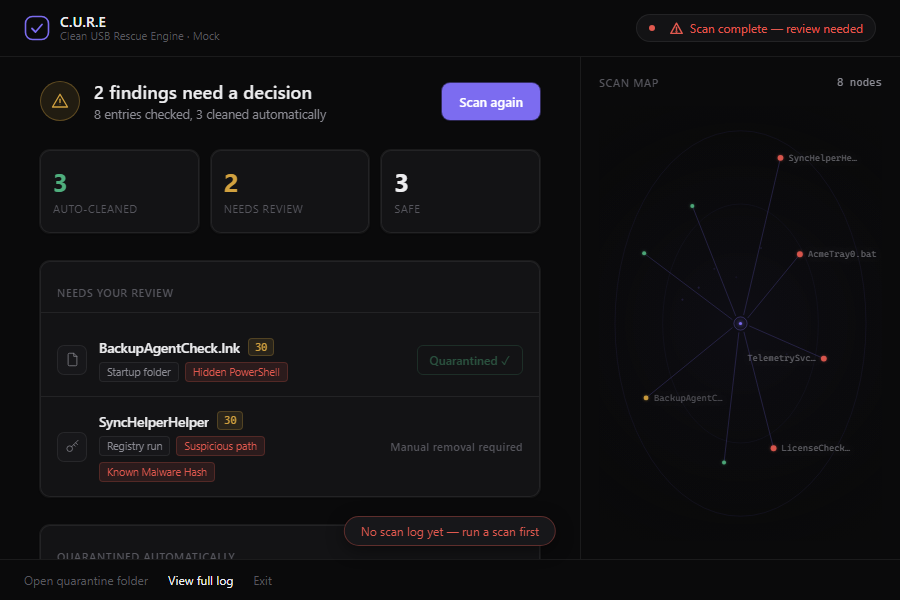
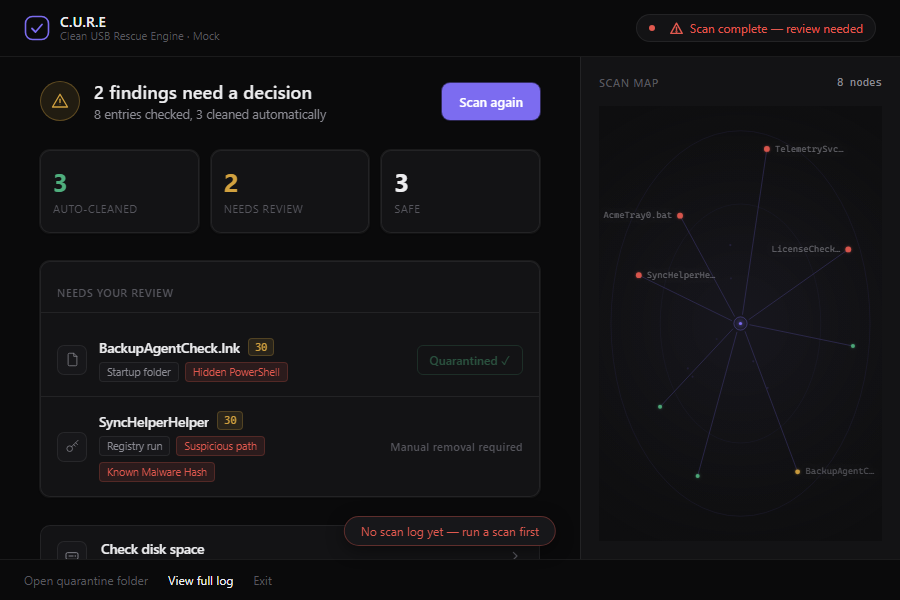
Visual polish: disk-space card, idle mascot presence, scan-map rebalance
- 'Check disk space' elevated from plain ghost text to a proper nav card:
  drive icon chip, label + subline, chevron, hover state; moved in-flow
  directly below the review panel
- Idle violet orb added to resting states: rests at the scan-map heart on
  all-clear results (hidden while findings are up so it never collides with
  the quarantine mascot) and beside the note in disk-cleanup ready state;
  low-amplitude bob, static under prefers-reduced-motion
- Scan map reads as a deliberate region: --panel tint + left border; node
  placement remapped outward (rf 0.58-0.92 -> 0.6-0.975, RX cap R*1.5 ->
  R*2.2) so nodes fill the panel; main stack widened to 880px and centered
  so wide-window dead space splits evenly instead of pooling before the rail;
  map widens to 460px at >=1440px viewports
- mock-tauri: __CURE_MOCK_ALL_CLEAR knob for clean-run captures
- New visualshots.mjs harness capturing all-clear/findings/cleanup-idle at
  900x600 + 1920x1080 (vision-reviewed this round)
- Fixed cleanupcheck.mjs openPage regression: still waited for pre-manual-
  start auto-scan behavior instead of clicking Start Rescue
- All harnesses green: verify, cleanupcheck 29/29, chipcheck, pixelcheck

diff --git a/gui/dist/index.dev.html b/gui/dist/index.dev.html
@@ -89,6 +89,15 @@
           </div>
         </div>
 
+        <button id="open-cleanup" class="disk-card reveal" style="--d:260ms">
+          <svg class="disk-icon" viewBox="0 0 24 24" aria-hidden="true"><rect x="3" y="7" width="18" height="10" rx="2.2"/><path d="M7.5 12h6.2"/><circle cx="16.9" cy="12" r="1" fill="currentColor" stroke="none"/></svg>
+          <span class="disk-copy">
+            <span class="disk-label">Check disk space</span>
+            <span class="disk-sub">Reclaim temp files, browser caches and old installers</span>
+          </span>
+          <svg class="disk-chevron" viewBox="0 0 24 24" aria-hidden="true"><path d="M9.5 6.5l5.5 5.5-5.5 5.5"/></svg>
+        </button>
+
         <div class="panel reveal" id="cleaned-block" style="--d:300ms">
           <h3>QUARANTINED AUTOMATICALLY</h3>
           <div id="cleaned-cards" class="entry-cards cleaned"></div>
@@ -113,10 +122,6 @@
             to check for a known decryptor. C.U.R.E cannot decrypt files.
           </div>
         </div>
-
-        <div class="cleanup-link-row reveal" style="--d:380ms">
-          <button id="open-cleanup" class="ghost-btn">Check disk space</button>
-        </div>
         </div>
         </div>
 
@@ -127,7 +132,21 @@
             <span class="feed-title">SCAN MAP</span>
             <span id="map-count" class="feed-count">0 nodes</span>
           </div>
-          <div id="map-stage"><canvas id="map-canvas"></canvas></div>
+          <div id="map-stage">
+            <canvas id="map-canvas"></canvas>
+            <div id="map-idle-orb" class="idle-orb hidden" aria-hidden="true">
+              <svg viewBox="-20 -20 40 40" width="34" height="34">
+                <defs>
+                  <radialGradient id="orb-grad-map" cx="35%" cy="32%" r="80%">
+                    <stop offset="0%" stop-color="#d9d4ff"/>
+                    <stop offset="45%" stop-color="#7c6cf0"/>
+                    <stop offset="100%" stop-color="#453aa6"/>
+                  </radialGradient>
+                </defs>
+                <circle r="13" fill="url(#orb-grad-map)"/>
+              </svg>
+            </div>
+          </div>
         </aside>
       </section>
         <section id="cleanup-view" class="view hidden">
@@ -150,8 +169,22 @@
 
               <div class="panel reveal" id="cleanup-panel" style="--d:160ms">
                 <div id="cleanup-idle" class="cleanup-idle hidden">
-                  <div class="cleanup-note dim">Check for reclaimable junk — temp files, browser caches, Recycle Bin, Windows.old, old installers. Nothing is scanned or deleted until you start.</div>
-                  <button id="cleanup-scan-btn" class="btn" style="margin-top:10px">Scan disk</button>
+                  <div class="idle-orb cleanup-idle-orb" aria-hidden="true">
+                    <svg viewBox="-20 -20 40 40" width="40" height="40">
+                      <defs>
+                        <radialGradient id="orb-grad-idle" cx="35%" cy="32%" r="80%">
+                          <stop offset="0%" stop-color="#d9d4ff"/>
+                          <stop offset="45%" stop-color="#7c6cf0"/>
+                          <stop offset="100%" stop-color="#453aa6"/>
+                        </radialGradient>
+                      </defs>
+                      <circle r="13" fill="url(#orb-grad-idle)"/>
+                    </svg>
+                  </div>
+                  <div class="cleanup-idle-copy">
+                    <div class="cleanup-note dim">Check for reclaimable junk — temp files, browser caches, Recycle Bin, Windows.old, old installers. Nothing is scanned or deleted until you start.</div>
+                    <button id="cleanup-scan-btn" class="btn" style="margin-top:10px">Scan disk</button>
+                  </div>
                 </div>
                 <div id="cleanup-loading" class="cleanup-note dim hidden">measuring reclaimable space…</div>
                 <div id="cleanup-body" class="hidden">

diff --git a/gui/dist/index.html b/gui/dist/index.html
@@ -89,6 +89,15 @@
           </div>
         </div>
 
+        <button id="open-cleanup" class="disk-card reveal" style="--d:260ms">
+          <svg class="disk-icon" viewBox="0 0 24 24" aria-hidden="true"><rect x="3" y="7" width="18" height="10" rx="2.2"/><path d="M7.5 12h6.2"/><circle cx="16.9" cy="12" r="1" fill="currentColor" stroke="none"/></svg>
+          <span class="disk-copy">
+            <span class="disk-label">Check disk space</span>
+            <span class="disk-sub">Reclaim temp files, browser caches and old installers</span>
+          </span>
+          <svg class="disk-chevron" viewBox="0 0 24 24" aria-hidden="true"><path d="M9.5 6.5l5.5 5.5-5.5 5.5"/></svg>
+        </button>
+
         <div class="panel reveal" id="cleaned-block" style="--d:300ms">
           <h3>QUARANTINED AUTOMATICALLY</h3>
           <div id="cleaned-cards" class="entry-cards cleaned"></div>
@@ -113,10 +122,6 @@
             to check for a known decryptor. C.U.R.E cannot decrypt files.
           </div>
         </div>
-
-        <div class="cleanup-link-row reveal" style="--d:380ms">
-          <button id="open-cleanup" class="ghost-btn">Check disk space</button>
-        </div>
         </div>
         </div>
 
@@ -127,7 +132,21 @@
             <span class="feed-title">SCAN MAP</span>
             <span id="map-count" class="feed-count">0 nodes</span>
           </div>
-          <div id="map-stage"><canvas id="map-canvas"></canvas></div>
+          <div id="map-stage">
+            <canvas id="map-canvas"></canvas>
+            <div id="map-idle-orb" class="idle-orb hidden" aria-hidden="true">
+              <svg viewBox="-20 -20 40 40" width="34" height="34">
+                <defs>
+                  <radialGradient id="orb-grad-map" cx="35%" cy="32%" r="80%">
+                    <stop offset="0%" stop-color="#d9d4ff"/>
+                    <stop offset="45%" stop-color="#7c6cf0"/>
+                    <stop offset="100%" stop-color="#453aa6"/>
+                  </radialGradient>
+                </defs>
+                <circle r="13" fill="url(#orb-grad-map)"/>
+              </svg>
+            </div>
+          </div>
         </aside>
       </section>
         <section id="cleanup-view" class="view hidden">
@@ -150,8 +169,22 @@
 
               <div class="panel reveal" id="cleanup-panel" style="--d:160ms">
                 <div id="cleanup-idle" class="cleanup-idle hidden">
-                  <div class="cleanup-note dim">Check for reclaimable junk — temp files, browser caches, Recycle Bin, Windows.old, old installers. Nothing is scanned or deleted until you start.</div>
-                  <button id="cleanup-scan-btn" class="btn" style="margin-top:10px">Scan disk</button>
+                  <div class="idle-orb cleanup-idle-orb" aria-hidden="true">
+                    <svg viewBox="-20 -20 40 40" width="40" height="40">
+                      <defs>
+                        <radialGradient id="orb-grad-idle" cx="35%" cy="32%" r="80%">
+                          <stop offset="0%" stop-color="#d9d4ff"/>
+                          <stop offset="45%" stop-color="#7c6cf0"/>
+                          <stop offset="100%" stop-color="#453aa6"/>
+                        </radialGradient>
+                      </defs>
+                      <circle r="13" fill="url(#orb-grad-idle)"/>
+                    </svg>
+                  </div>
+                  <div class="cleanup-idle-copy">
+                    <div class="cleanup-note dim">Check for reclaimable junk — temp files, browser caches, Recycle Bin, Windows.old, old installers. Nothing is scanned or deleted until you start.</div>
+                    <button id="cleanup-scan-btn" class="btn" style="margin-top:10px">Scan disk</button>
+                  </div>
                 </div>
                 <div id="cleanup-loading" class="cleanup-note dim hidden">measuring reclaimable space…</div>
                 <div id="cleanup-body" class="hidden">

diff --git a/gui/dist/style.css b/gui/dist/style.css
@@ -345,8 +345,10 @@ body {
   flex-direction: column;
   gap: 28px;
   width: 100%;
-  max-width: 720px;
-  margin: auto 0;
+  max-width: 880px;
+  /* center in the main region: splits the wide-window gap evenly on both
+     sides of the content instead of pooling it all before the map rail */
+  margin: auto;
 }
 
 .headline-wrap { min-width: 0; }
@@ -376,7 +378,7 @@ body {
   border: none;
   border-left: 1px solid var(--border);
   border-radius: 0;
-  background: transparent;
+  background: var(--panel);
   box-shadow: none;
   padding: 24px;
   overflow: visible;
@@ -718,6 +720,11 @@ body {
   .map-card { width: 320px; padding: 18px; }
 }
 
+/* wide windows: widen both regions so the composition stays balanced */
+@media (min-width: 1440px) {
+  .map-card { width: 460px; padding: 28px 32px; }
+}
+
 @media (prefers-reduced-motion: reduce) {
   .caret, .pill.scanning .pill-dot { animation: none !important; }
   .view { transition: opacity 0.01s linear !important; transform: none !important; }
@@ -835,11 +842,86 @@ body {
 
 /* ---------- cleanup link + separate cleanup view + mascot ---------- */
 
-.cleanup-link-row {
+/* ---------- disk-space nav card + idle mascot orb ---------- */
+
+.disk-card {
   display: flex;
-  justify-content: center;
-  margin-top: 2px;
+  align-items: center;
+  gap: 14px;
+  width: 100%;
+  padding: 13px 16px;
+  background: var(--panel);
+  border: 1px solid var(--border);
+  border-radius: var(--radius);
+  color: var(--text);
+  font-family: var(--font-ui);
+  text-align: left;
+  cursor: pointer;
+  transition: border-color 0.15s ease, background 0.15s ease;
 }
+.disk-card:hover {
+  border-color: var(--accent-border);
+  background: var(--panel-2);
+}
+.disk-icon {
+  width: 30px;
+  height: 30px;
+  flex: none;
+  padding: 6px;
+  border-radius: 7px;
+  background: var(--panel-2);
+  border: 1px solid var(--border);
+  color: var(--text-muted);
+  fill: none;
+  stroke: currentColor;
+  stroke-width: 1.4;
+  stroke-linecap: round;
+  transition: color 0.15s ease;
+}
+.disk-card:hover .disk-icon { color: var(--accent); }
+.disk-copy {
+  flex: 1;
+  min-width: 0;
+  display: flex;
+  flex-direction: column;
+  gap: 1px;
+}
+.disk-label { font-size: 13.5px; font-weight: 500; }
+.disk-sub { font-size: 11.5px; color: var(--text-muted); }
+.disk-chevron {
+  width: 16px;
+  height: 16px;
+  flex: none;
+  color: var(--text-faint);
+  fill: none;
+  stroke: currentColor;
+  stroke-width: 1.8;
+  stroke-linecap: round;
+  stroke-linejoin: round;
+  transition: transform 0.15s ease, color 0.15s ease;
+}
+.disk-card:hover .disk-chevron { transform: translateX(2px); color: var(--accent); }
+
+.idle-orb {
+  pointer-events: none;
+  filter: drop-shadow(0 0 12px rgba(124, 108, 240, 0.4));
+  animation: orb-bob-soft 3.6s ease-in-out infinite;
+}
+@keyframes orb-bob-soft {
+  0%, 100% { transform: translateY(0); }
+  50% { transform: translateY(-3px); }
+}
+#map-idle-orb {
+  position: absolute;
+  left: 50%;
+  top: 50%;
+  width: 34px;
+  height: 34px;
+  margin: -33px 0 0 -17px;
+  z-index: 2;
+}
+.cleanup-idle-orb { flex: none; }
+.cleanup-idle-copy { min-width: 0; }
 
 .toss-stage { flex: none; }
 .toss-stage svg { display: block; overflow: visible; }
@@ -873,9 +955,9 @@ body {
 
 .cleanup-idle {
   display: flex;
-  flex-direction: column;
-  align-items: flex-start;
-  gap: 4px;
+  flex-direction: row;
+  align-items: center;
+  gap: 16px;
 }
 .cleanup-idle .cleanup-note { margin: 0; }
 
@@ -894,6 +976,8 @@ body {
 
 @media (prefers-reduced-motion: reduce) {
   .landing-orb { animation: none !important; }
+  .idle-orb { animation: none !important; }
+  .disk-card, .disk-icon, .disk-chevron { transition: none !important; }
 }
 
 /* cleanup view must fit a 600px-tall window without pushing the result

diff --git a/gui/dist/app.js b/gui/dist/app.js
@@ -685,7 +685,7 @@
       // available height so the constellation fills the panel instead of
       // floating as a landscape-biased blob mid-card
       R = Math.max(10, (H / 2 - 8 * DPR) * 0.92);
-      RX = Math.max(30, Math.min(W / 2 - 16 * DPR, R * 1.5));
+      RX = Math.max(30, Math.min(W / 2 - 12 * DPR, R * 2.2));
       return true;
     }
     function onResize() {
@@ -713,9 +713,11 @@
       return "rgba(" + c[0] + "," + c[1] + "," + c[2] + "," + a + ")";
     }
     function nodeXY(nd) {
+      // spread nodes toward the panel edges: rf [0.58..0.92] -> [0.6..0.975]
+      const rm = 0.6 + (nd.rf - 0.58) * 1.1;
       return {
-        x: CX + Math.cos(nd.ang) * nd.rf * RX,
-        y: CY + Math.sin(nd.ang) * nd.rf * R,
+        x: CX + Math.cos(nd.ang) * rm * RX,
+        y: CY + Math.sin(nd.ang) * rm * R,
       };
     }
     function edgeAlpha(risk) {
@@ -1254,6 +1256,11 @@
         "Scan complete — review needed"
       );
     }
+
+    // idle mascot keeps the all-clear map company; hides while findings
+    // are up so it never collides with the darting quarantine mascot
+    const idleOrb = document.getElementById("map-idle-orb");
+    if (idleOrb) idleOrb.classList.toggle("hidden", trouble !== 0);
 
     const revealables = resultsView.querySelectorAll(".reveal");
     if (!REDUCED && revealables.length > 0) {

diff --git a/gui/dist/mock-tauri.js b/gui/dist/mock-tauri.js
@@ -57,6 +57,22 @@
 
   function makeMockItems(n) {
     const items = [];
+    if (window.__CURE_MOCK_ALL_CLEAR) {
+      for (let i = 0; i < n; i++) {
+        items.push({
+          source: "scheduled-task",
+          name: "Microsoft\\Windows\\Maintenance\\TelemetrySvc" + (i || ""),
+          command: "C:\\Windows\\System32\\telemetrysvc" + i + ".exe /quiet",
+          location: "C:\\Windows\\System32\\Tasks\\Microsoft\\Windows\\Maintenance\\TelemetrySvc" + i,
+          risk: "Safe",
+          score: 0,
+          reasons: [
+            "-20 command path is a trusted install location (Program Files/System32)",
+          ],
+        });
+      }
+      return items;
+    }
     for (let i = 0; i < n; i++) {
       const base =
         NAME_PREFIXES[i % NAME_PREFIXES.length] + (i % 3 === 0 ? String(i) : "");
